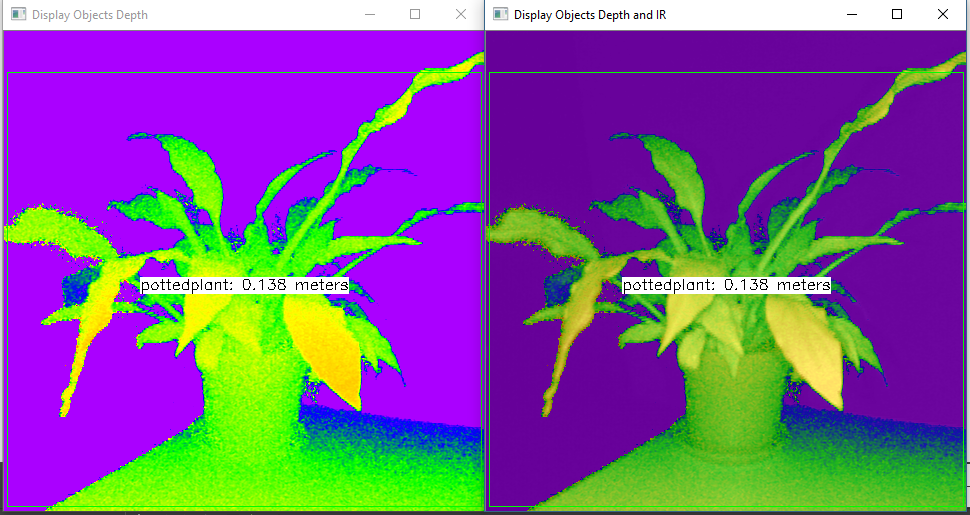
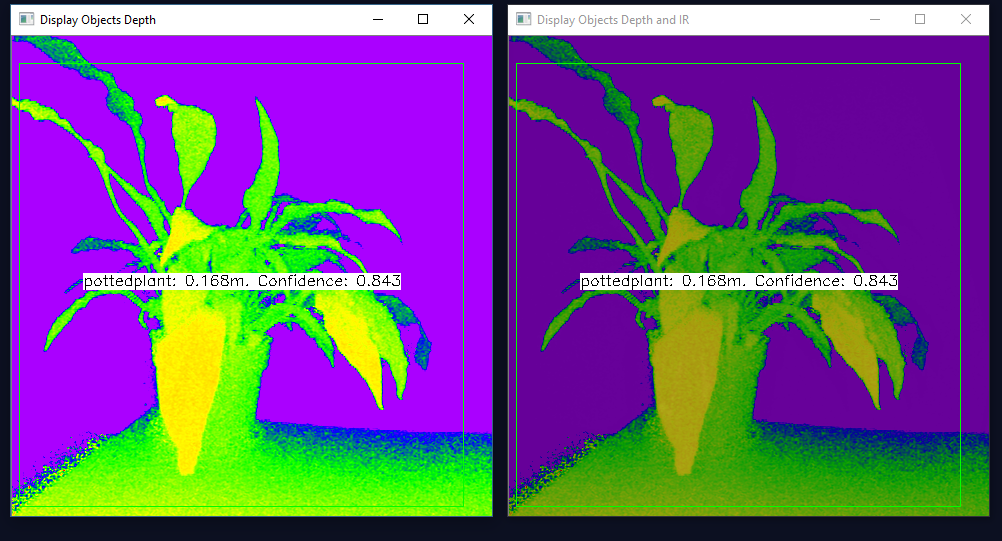
opencv bindings: Show on image the confidence.
Show the confidence on images, in both python and cpp bindings examples.
Replaced the result images.

diff --git a/bindings/python/examples/dnn/dnn.py b/bindings/python/examples/dnn/dnn.py
@@ -74,7 +74,7 @@ if __name__ == "__main__":
     if not status:
         print("cameras[0].setFrameType() failed with status:", status)
 
-    status = cameras[0].setMode(modes[ModesEnum.MODE_MEDIUM.value])
+    status = cameras[0].setMode(modes[ModesEnum.MODE_NEAR.value])
     if not status:
         print("cameras[0].setMode() failed with status: ", status)
 
@@ -166,7 +166,7 @@ if __name__ == "__main__":
                     value_x = int(center[0])
                     value_y = int(center[1])
                     label = classNames[class_id] + ": " + \
-                            "{0:.3f}".format(distance_map[value_x, value_y] / 1000.0 * 0.3) + " " + "meters"
+                            "{0:.3f}".format(distance_map[value_x, value_y] / 1000.0 * 0.3) + " " + "m. Confidence: " + str(confidence)
                     labelSize, baseLine = cv.getTextSize(label, cv.FONT_HERSHEY_SIMPLEX, 0.5, 1)
 
                     yLeftBottom = max(yLeftBottom, labelSize[1])

diff --git a/bindings/opencv/dnn/main.cpp b/bindings/opencv/dnn/main.cpp
@@ -233,7 +233,8 @@ int main(int argc, char *argv[]) {
                 std::ostringstream ss;
                 ss.str("");
                 ss << std::setprecision(3)
-                   << depthMat.at<ushort>(center) / 1000.0 * 0.3 << " meters";
+                   << depthMat.at<ushort>(center) / 1000.0 * 0.3
+                   << "m. Confidence: " << confidence;
                 cv::String conf(ss.str());
 
                 cv::rectangle(frameMat, object, cv::Scalar(0, 255, 0));
